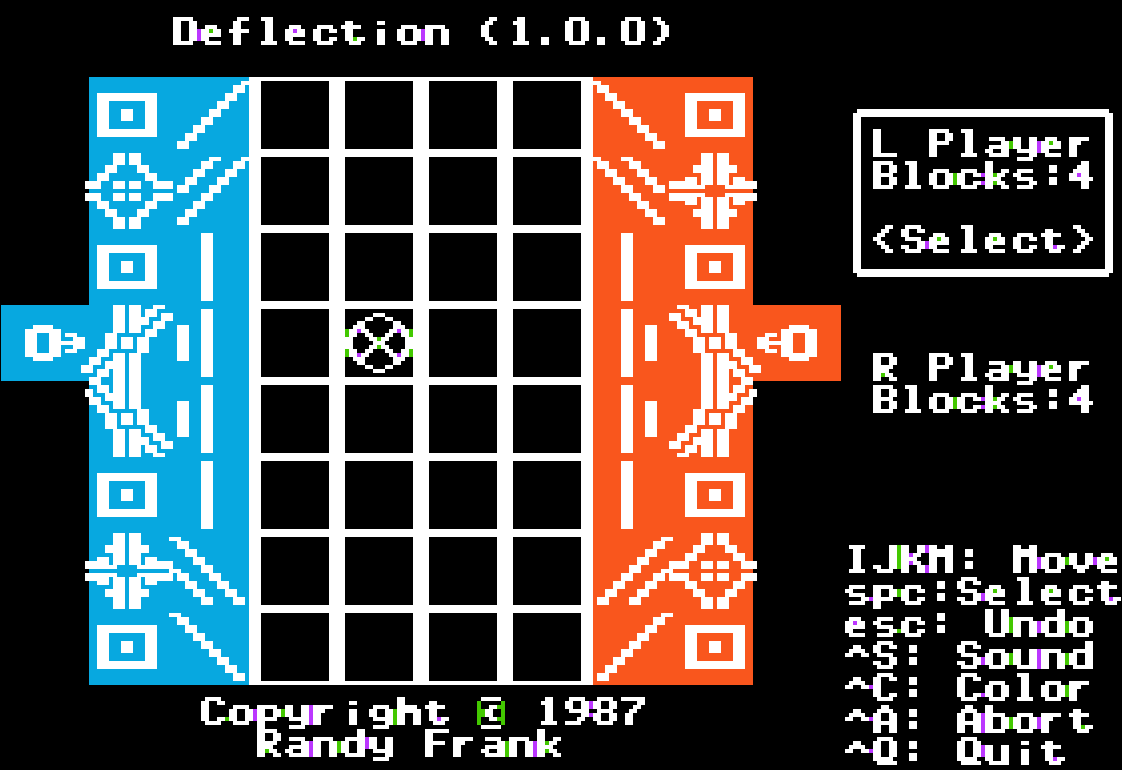
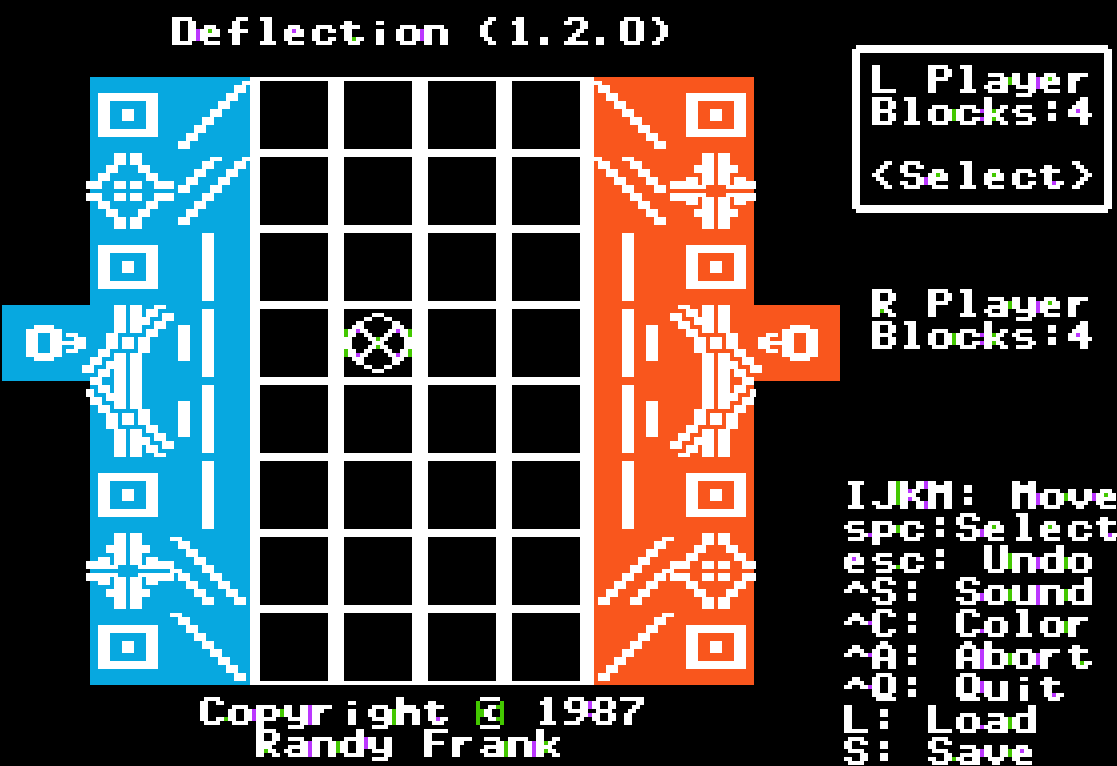
Add Load/Save option
Add option to load and save a game state to disk.
Version 1.2.0

diff --git a/build.py b/build.py
@@ -99,7 +99,7 @@ if not prerequisites:
 
 # Set the version number and start the build process
 # Must be 5 characters
-version = "1.1.1"
+version = "1.2.0"
 
 # Burn the version number into the source file VERSION.S 
 log.info("Generating 6502 source code...")

diff --git a/README.rst b/README.rst
@@ -153,14 +153,15 @@ to post questions and code.
 The game is also hosted on `itch.io <https://myleftgoat.itch.io/deflection>`_ which provides
 a simpler download option and forum to discuss more gameplay related issues.
 
+Releases
+~~~~~~~~
+
+* 1.2.0 - Added Load/Save option
 
 Things To Do
 ~~~~~~~~~~~~
 Currently, there is no provision for a computer player.  It would be nice to
 include a way to play solo.
-
-There is no mechanism to save/load a game during play.  This would be very
-handy, especially while working on the computer player.
 
 Probably more?
 
